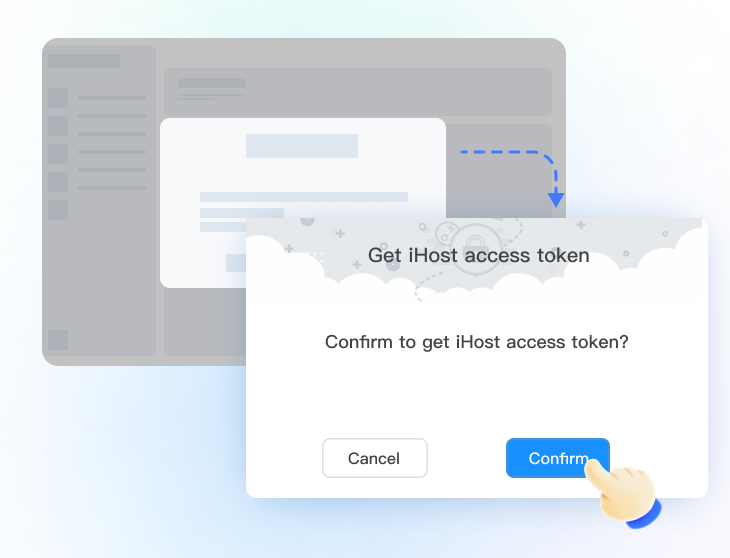
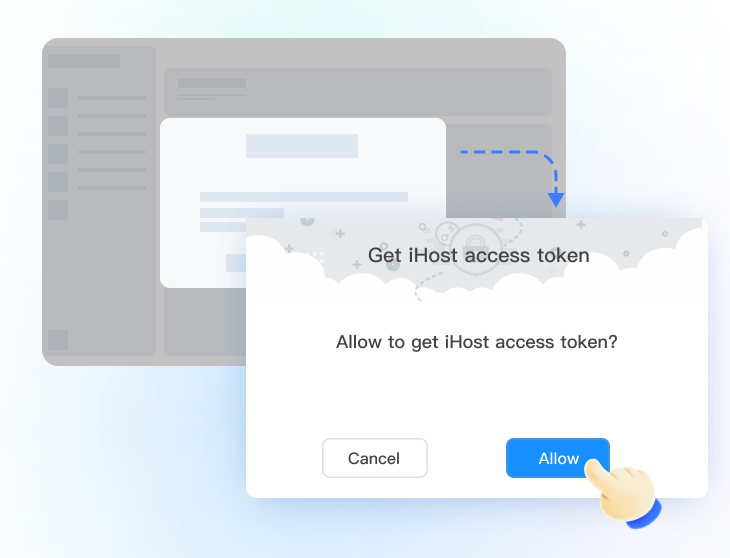
Update web i18n and carousel images

Changed region(s): [[0.4521, 0.5789, 0.8438, 0.6398], [0.7233, 0.7921, 0.8137, 0.853]]

diff --git a/packages/web/src/i18n/zh_CN.ts b/packages/web/src/i18n/zh_CN.ts
@@ -1,8 +1,8 @@
 // 简体中文
 const zhCN = {
     'get_gateway_token': '获取网关凭证',
-    'step_1_click_get_token_button': '步骤 1：点击下方“获取网关凭证”按钮',
-    'step_2_confirm_token_popup': '步骤 2：点击“获取网关凭证”弹窗的允许按钮',
+    'step_1_click_get_token_button': '步骤 1：点击下方“获取凭证”按钮',
+    'step_2_confirm_token_popup': '步骤 2：点击“获取网关凭证”弹窗的确定按钮',
     'get_token': '获取凭证',
     'audio_file': '音频文件',
     'file_name': '文件名称',
@@ -10,7 +10,7 @@ const zhCN = {
     'configuration': '配置',
     'created_time': '时间',
     'operation': '操作',
-    'filename_empty': '音频名称不允许为空格（中文）'
+    'filename_empty': '音频名称不允许为空'
 };
 
 export default zhCN;

diff --git a/packages/web/src/i18n/en_US.ts b/packages/web/src/i18n/en_US.ts
@@ -1,16 +1,16 @@
 // 英语
 const enUS = {
     'get_gateway_token': 'Get gateway token',
-    'step_1_click_get_token_button': 'Step 1: Click "Get iHost access token" below.',
-    'step_2_confirm_token_popup': 'Step 2: Confirm "Get iHost access token" on the pop-up.',
-    'get_token': 'Get token',
+    'step_1_click_get_token_button': 'Step 1: Click "Get access token" below.',
+    'step_2_confirm_token_popup': 'Step 2: Allow "Get iHost access token" on the pop-up.',
+    'get_token': 'Get access token',
     'audio_file': 'Audio files',
     'file_name': 'Name',
     'text': 'Text',
     'configuration': 'Configuration',
     'created_time': 'Created',
     'operation': 'Action',
-    'filename_empty': '音频名称不允许为空格（英文）'
+    'filename_empty': 'Please enter an audio name'
 };
 
 export default enUS;
